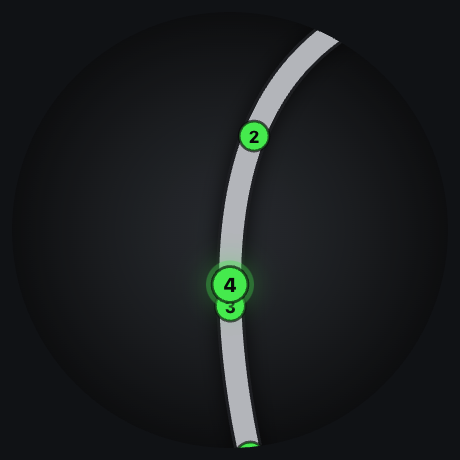
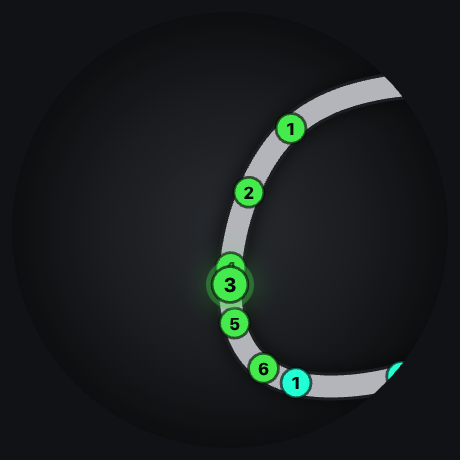
Make the overlay sample lap agree with its own reference lap
The sample car lapped in 22 s against a reference worked out as 67 s, so Delta
Sectors showed a 45 s gap while arranging overlays. The sample track's length
now follows from its speeds, and the car moves along it at those speeds.

Changed region(s): [[0.4565, 0.0609, 0.8826, 0.6087], [0.4565, 0.6087, 0.8826, 0.9739]]

diff --git a/apps/desktop/src/overlay-preview.ts b/apps/desktop/src/overlay-preview.ts
@@ -33,7 +33,6 @@ import { RaceViewBuilder } from "./race-view.js";
  *  to shade and the map something to mark. */
 const CORNERS = [0.12, 0.35, 0.58, 0.82];
 const GRID_SIZE = 400;
-const LAP_LENGTH_M = 3200;
 const LAP_DURATION_S = 22;
 const TICK_MS = 50;
 
@@ -77,10 +76,10 @@ function buildProfile(): { throttle: number[]; brake: number[]; speedMps: number
 /** A plausible gear for a speed, for the sample lap and its reference. */
 const gearFor = (speedMps: number): number => Math.max(2, Math.min(6, Math.ceil((speedMps * 3.6) / 45)));
 
-function buildElapsed(speedMps: readonly number[]): number[] {
+function buildElapsed(speedMps: readonly number[], lengthM: number): number[] {
   const elapsed: number[] = [];
   let t = 0;
-  const stepM = LAP_LENGTH_M / GRID_SIZE;
+  const stepM = lengthM / GRID_SIZE;
   for (let i = 0; i < GRID_SIZE; i++) {
     elapsed.push(t);
     t += stepM / Math.max(1, speedMps[i] ?? 40);
@@ -90,7 +89,29 @@ function buildElapsed(speedMps: readonly number[]): number[] {
 
 const shape = buildShape();
 const profile = buildProfile();
-const elapsedS = buildElapsed(profile.speedMps);
+/**
+ * As long as the sample speeds cover in LAP_DURATION_S, so the reference lap
+ * time, the car's own lap and the field's lap times all agree. A fixed length
+ * made the reference a 67 s lap beside 22 s ones, and Delta Sectors showed a
+ * 45 s gap.
+ */
+const LAP_LENGTH_M =
+  LAP_DURATION_S / profile.speedMps.reduce((sum, v) => sum + 1 / Math.max(1, v), 0) * GRID_SIZE;
+const elapsedS = buildElapsed(profile.speedMps, LAP_LENGTH_M);
+
+/** Where the sample car is `t` seconds into its lap: slow in the corners, as its speed says. */
+function pctAtTime(t: number): number {
+  let lo = 0;
+  let hi = GRID_SIZE - 1;
+  while (lo < hi) {
+    const mid = (lo + hi + 1) >> 1;
+    if ((elapsedS[mid] ?? 0) <= t) lo = mid;
+    else hi = mid - 1;
+  }
+  const from = elapsedS[lo] ?? 0;
+  const to = lo + 1 < GRID_SIZE ? (elapsedS[lo + 1] ?? LAP_DURATION_S) : LAP_DURATION_S;
+  return (lo + (to > from ? (t - from) / (to - from) : 0)) / GRID_SIZE;
+}
 const NOTE_IDS = CORNERS.map((_, i) => `preview-${i + 1}`);
 
 function sample(channel: readonly number[], p: number): number {
@@ -113,7 +134,7 @@ const mapView: TrackMapView = {
 
 const referenceView: ReferenceView = {
   gridSize: GRID_SIZE,
-  lapTimeS: elapsedS[GRID_SIZE - 1] ?? LAP_DURATION_S,
+  lapTimeS: LAP_DURATION_S,
   carId: "preview",
   throttle: profile.throttle,
   brake: profile.brake,
@@ -273,7 +294,8 @@ export function startOverlayPreview(send: (channel: string, payload: unknown) =>
 
   const timer = setInterval(() => {
     const elapsedMs = Date.now() - startedAt;
-    const lapPct = (elapsedMs / 1000 / LAP_DURATION_S) % 1;
+    const lapS = (elapsedMs / 1000) % LAP_DURATION_S;
+    const lapPct = pctAtTime(lapS);
     const newLap = Math.floor(elapsedMs / 1000 / LAP_DURATION_S);
     if (newLap !== lap) {
       lap = newLap;
@@ -300,7 +322,7 @@ export function startOverlayPreview(send: (channel: string, payload: unknown) =>
       rpm: 4800 + ((speed * 3.6) % 45) / 45 * 3000,
       clutch: 0,
       ffb: 0.35 + brake * 0.4,
-      lapElapsedS: seconds(lapPct * LAP_DURATION_S),
+      lapElapsedS: seconds(lapS),
       // A gentle side-to-side wander — enough to show the bar move both ways
       // without ever reading as a real, consistent pace difference.
       deltaS: seconds(0.4 * Math.sin(elapsedMs / 4000)),
